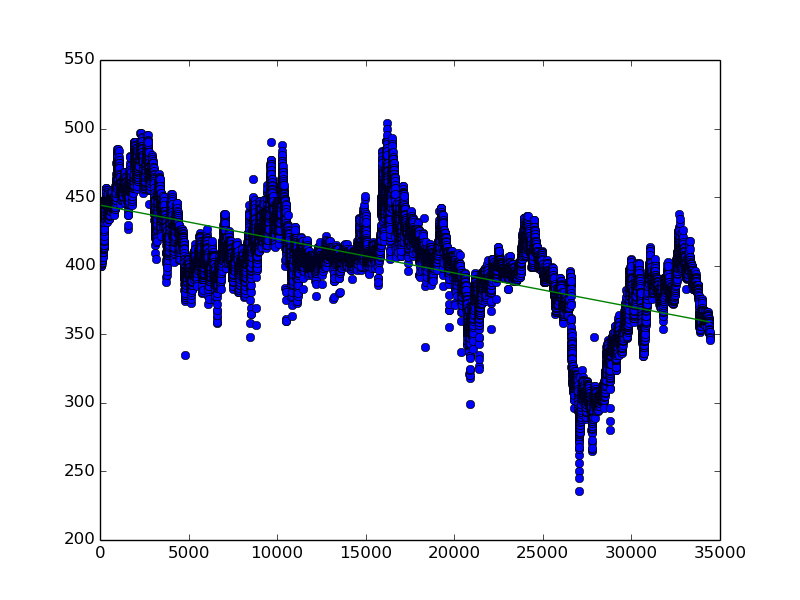
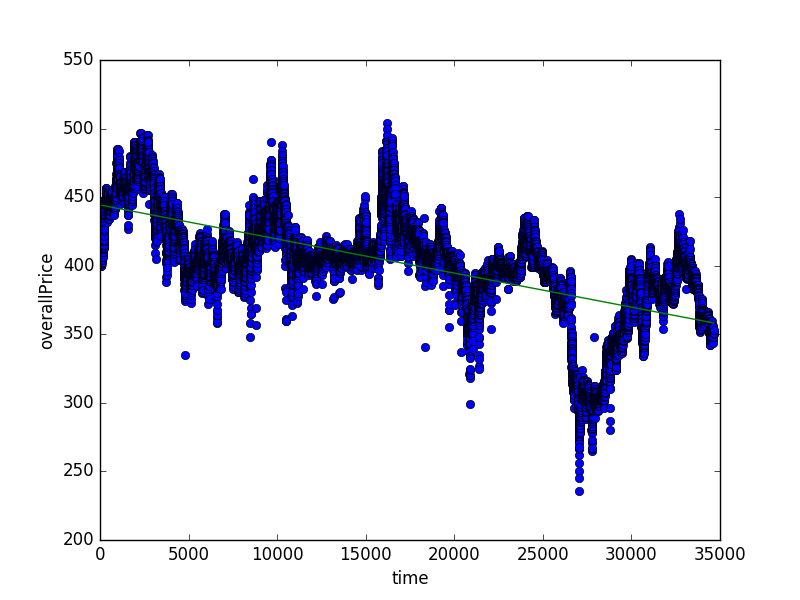
Replot data for yew logs

diff --git a/ors.py b/ors.py
@@ -116,6 +116,8 @@ def PlotData (ls):
         slope, intercept, r_value, p_value, stderr = scipy.stats.linregress(xi, itemLs)
         line = slope * xi + intercept
         pylab.plot(xi, itemLs, 'o', xi, line)
+        pylab.xlabel('time')
+        pylab.ylabel(param)
         pylab.savefig(param+'.png')
         print(slope,'|',intercept,'|',r_value,'|',p_value,'|',stderr)
         matplotlib.pyplot.close()
@@ -132,6 +134,7 @@ def PlotNormalDist (ls):
     fig = matplotlib.pyplot.figure()
     normDist = numpy.linspace(min(itemLs), max(itemLs), len(itemLs))
     matplotlib.pyplot.plot(matplotlib.mlab.normpdf(normDist, mean, sigma))
+    matplotlib.pyplot.xlabel(param)
     fig.savefig(param+'_pdf.png', dpi=fig.dpi) 
 
 ##############################################################################################
@@ -158,7 +161,7 @@ def ORS_HistoricalData ():
     sz = len(itemData)
 
     #FiveNumSummary(itemData)
-    #PlotData(itemData)
+    PlotData(itemData)
     PlotNormalDist(itemData)
     #SlopeEvaluation(itemData)
 
